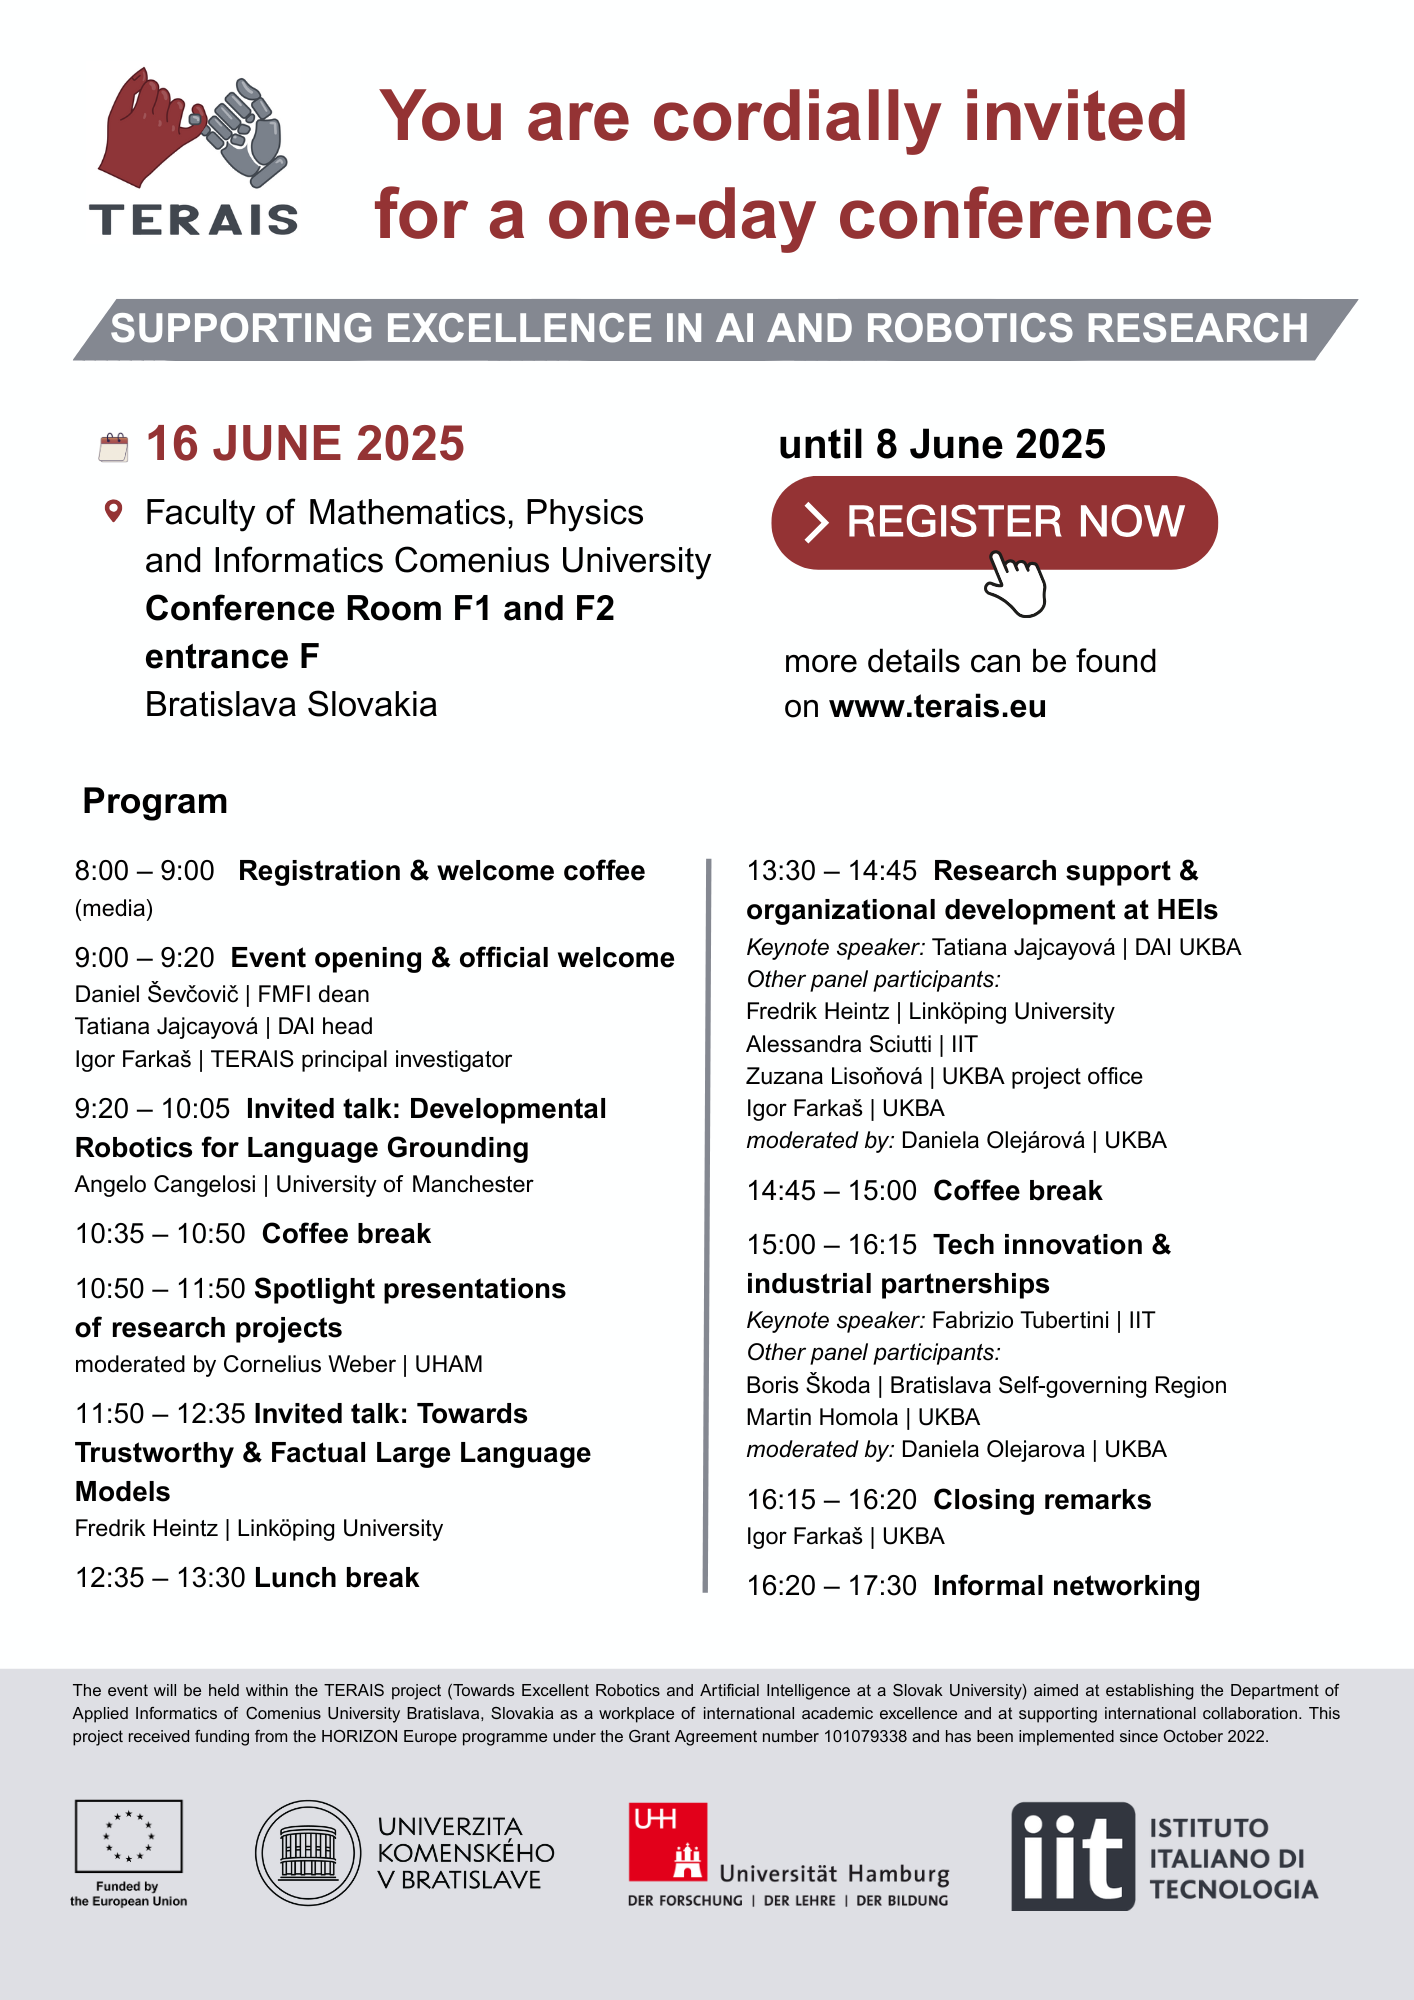
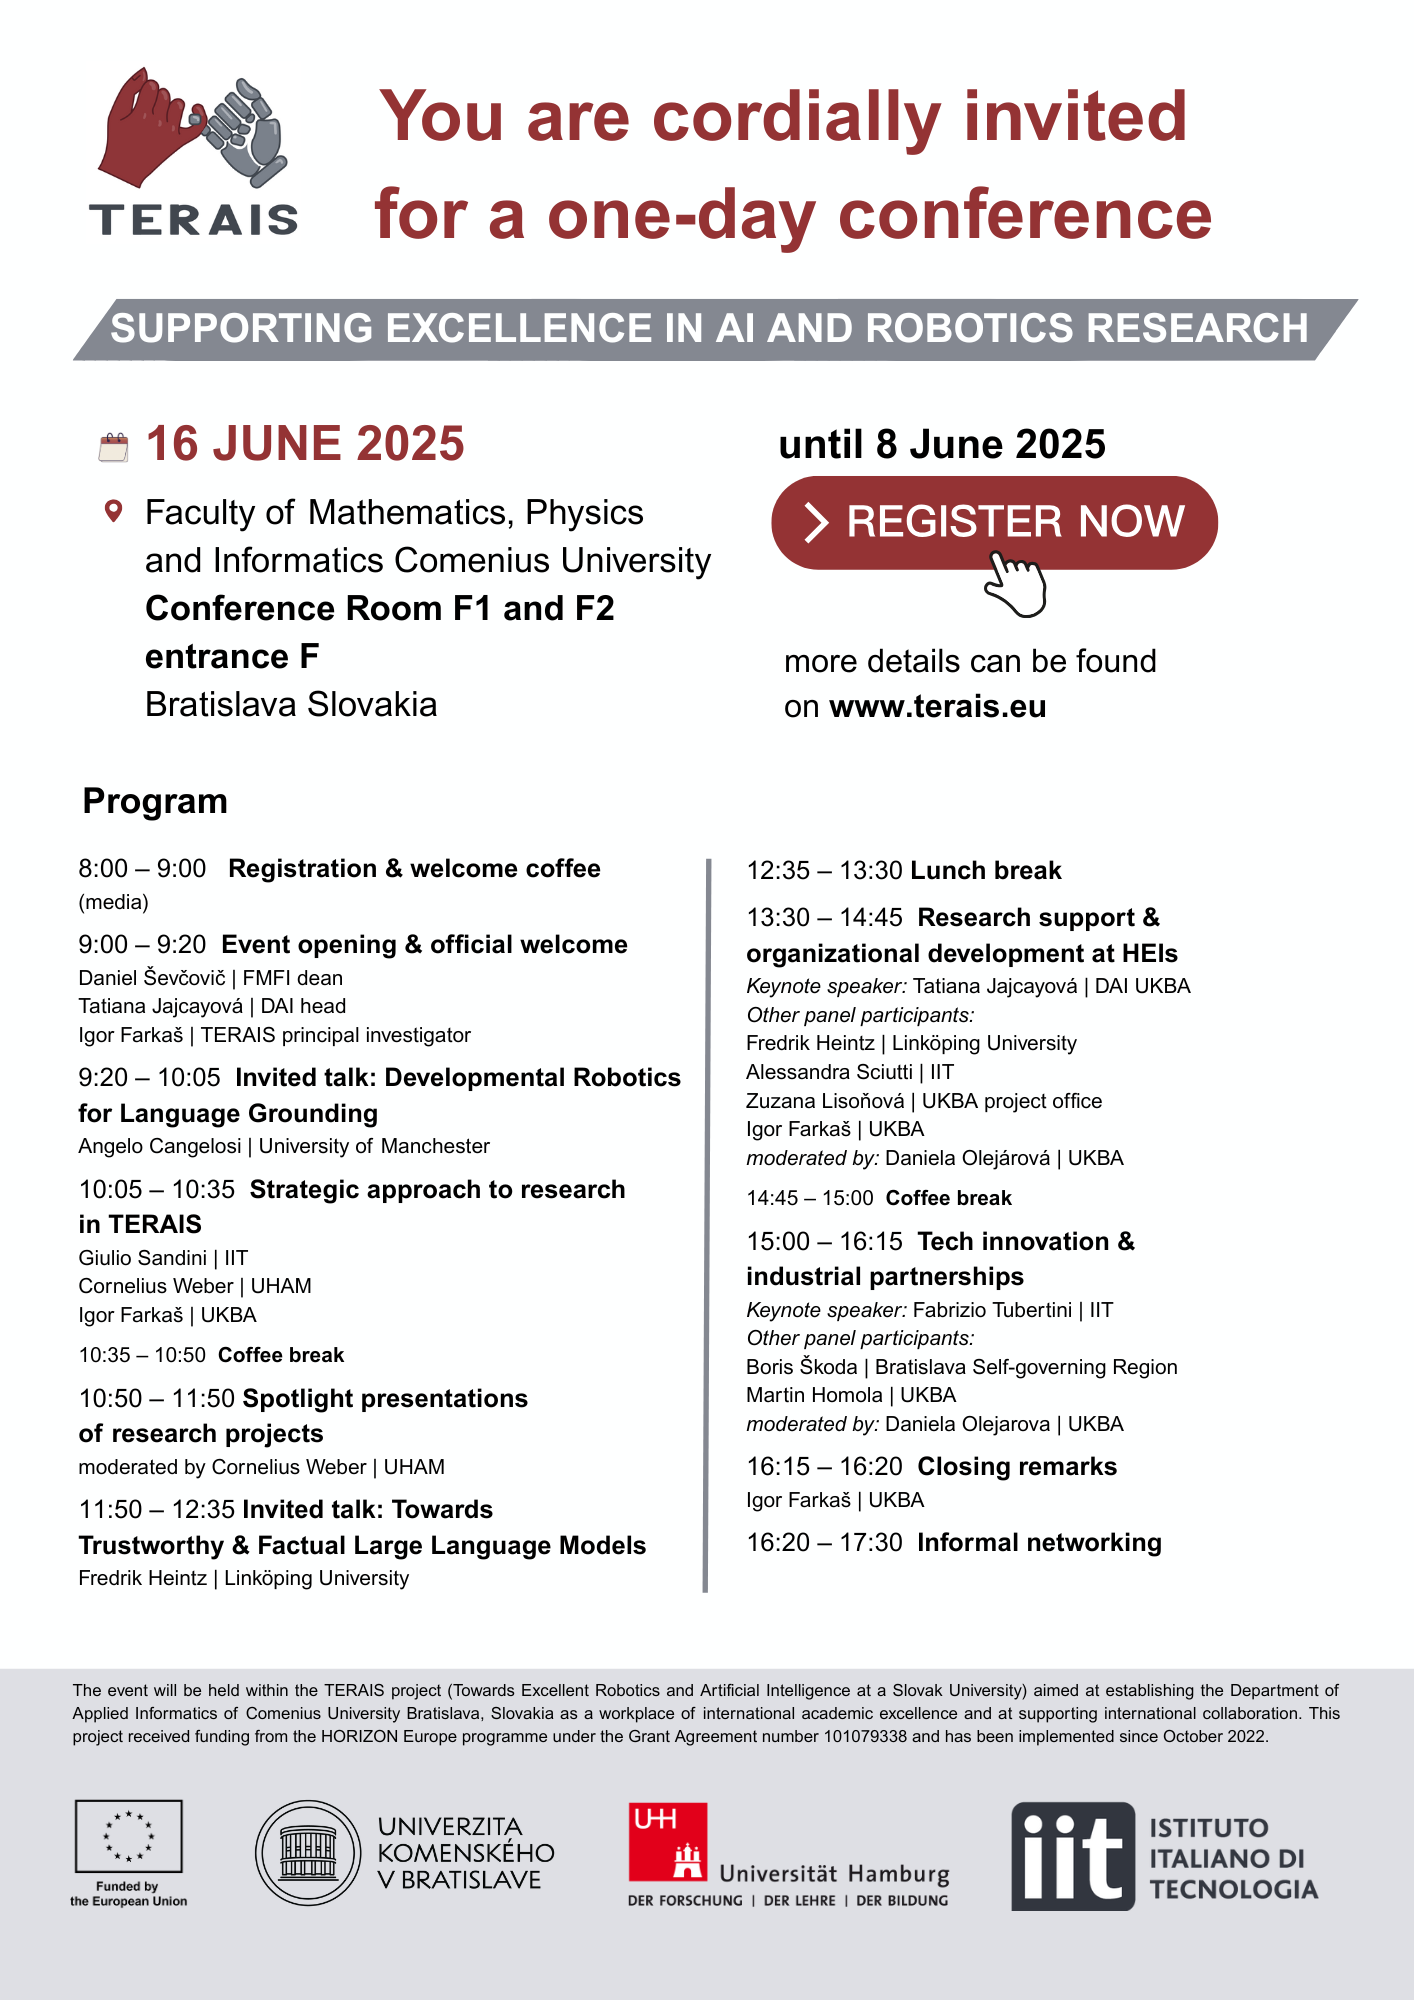
update events

Changed region(s): [[0.0311, 0.434, 0.4668, 0.806], [0.529, 0.434, 0.8713, 0.806]]

diff --git a/content/events/index.html b/content/events/index.html
@@ -1,0 +1,154 @@
+<h1 style="margin: 0">Events</h1>
+<hr>
+<a href="https://forms.gle/3WgNUwh1aGhbS5Cm6" target="_blank">
+	{{< figure src="invitation.png" alt="Lecture halls at FMPI"
+	lightbox="false" class="w-100 m-0 figure" >}}
+</a>
+Contact person: <a href="mailto:nina.kucerakova@fmph.uniba.sk">nina.kucerakova@fmph.uniba.sk</a>
+<h2 style="display: none">Agenda</h2>
+<div style="display: none">
+	<hr>
+	<div style="display: flex; flex-direction: row; justify-content: left; gap: 1em">
+		<div><strong>8:00 – 9:00</strong></div>
+		<div><em>Registration & welcome coffee (media)</em></div>
+	</div>
+	<hr>
+	<div style="display: flex; flex-direction: row; justify-content: left; gap: 1em">
+		<div><strong>9:00 – 9:20</strong></div>
+		<div>Event opening & official welcome</div>
+	</div>
+	<div>
+		<details>
+			<summary><strong>Daniel Ševčovič</strong> | FMFI dean</summary>
+		</details>
+		<details>
+			<summary><strong>Tatiana Jajcayová</strong> | DAI head</summary>
+		</details>
+		<details>
+			<summary><strong>Igor Farkaš</strong> | TERAIS principal investigator</summary>
+		</details>
+	</div>
+	<hr>
+	<div style="display: flex; flex-direction: row; justify-content: left; gap: 1em">
+		<div><strong>9:20 – 10:05</strong></div>
+		<div><strong>Invited lecture</strong>: Developmental Robotics for Language Grounding</div>
+	</div>
+	<div>
+		<details>
+			<summary><strong>Angelo Cangelosi</strong> | University of Manchester</summary>
+		</details>
+	</div>
+	<hr>
+	<div style="display: flex; flex-direction: row; justify-content: left; gap: 1em">
+		<div><strong>10:05 – 10:35</strong></div>
+		<div><strong>Strategic approach to research in TERAIS</strong></div>
+	</div>
+	<div>
+		<details>
+			<summary><strong>Giulio Sandini</strong> | IIT</summary>
+		</details>
+		<details>
+			<summary><strong>Cornelius Weber </strong> | UHAM</summary>
+		</details>
+		<details>
+			<summary><strong>Igor Farkaš</strong> | UKBA</summary>
+		</details>
+	</div>
+	<hr>
+	<div style="display: flex; flex-direction: row; justify-content: left; gap: 1em">
+		<div><strong>10:35 – 10:50</strong></div>
+		<div><em>Coffee break</em></div>
+	</div>
+	<hr>
+	<div style="display: flex; flex-direction: row; justify-content: left; gap: 1em">
+		<div><strong>10:50 – 11:50</strong></div>
+		<div><strong>Spotlight presentations of research projects</strong> <em>(see below)</em></div>
+	</div>
+	<div>
+		<details>
+			<summary><strong>Cornelius Weber</strong> | UHAM</summary>
+		</details>
+	</div>
+	<hr>
+	<div style="display: flex; flex-direction: row; justify-content: left; gap: 1em">
+		<div><strong>11:50 – 12:35</strong></div>
+		<div><strong>Invited lecture</strong>: Towards Trustworthy and Factual Large Language Models</div>
+	</div>
+	<div>
+		<details>
+			<summary><strong>Fredrik Heintz</strong> | Linköping University</summary>
+		</details>
+	</div>
+	<hr>
+	<div style="display: flex; flex-direction: row; justify-content: left; gap: 1em">
+		<div><strong>12:35 – 13:30</strong></div>
+		<div><em>Lunch break</em></div>
+	</div>
+	<hr>
+	<div style="display: flex; flex-direction: row; justify-content: left; gap: 1em">
+		<div><strong>13:30 – 14:45</strong></div>
+		<div><strong>Research support & organizational development at HEIs</strong></div>
+	</div>
+	<div>
+		<details>
+			<summary><em>Keynote speaker: </em><strong>Tatiana Jajcayová</strong> | DAI UKBA</summary>
+		</details>
+		<details>
+			<summary><em>Other panel participants: </em><strong>Fredrik Heintz</strong> | Linköping University, <strong>Alessandra
+				Sciutti</strong> | IIT, <strong>Zuzana Lisoňová</strong> | UKBA project office, <strong>Igor Farkaš</strong> |
+				UKBA
+			</summary>
+		</details>
+		<details>
+			<summary><em>Moderated by: </em><strong>Daniela Olejárová</strong> | UKBA</summary>
+		</details>
+	</div>
+	<hr>
+	<div style="display: flex; flex-direction: row; justify-content: left; gap: 1em">
+		<div><strong>14:45 – 15:00</strong></div>
+		<div><em>Coffee break</em></div>
+	</div>
+	<hr>
+	<div style="display: flex; flex-direction: row; justify-content: left; gap: 1em">
+		<div><strong>15:00 – 16:15</strong></div>
+		<div><strong>Tech innovation & industrial partnerships</strong></div>
+	</div>
+	<div>
+		<details>
+			<summary><em>Keynote speaker: </em><strong>Fabrizio Tubertini</strong> | IIT</summary>
+		</details>
+		<details>
+			<summary><em>Other panel participants: </em><strong>Boris Škoda</strong> | Bratislava Self-governing Region;
+				<strong>Martin Homola</strong> | UKBA
+			</summary>
+		</details>
+		<details>
+			<summary><em>Moderated by: </em><strong>Daniela Olejárová</strong> | UKBA</summary>
+		</details>
+	</div>
+	<hr>
+	<div style="display: flex; flex-direction: row; justify-content: left; gap: 1em">
+		<div><strong>16:15 – 16:20</strong></div>
+		<div><strong>Closing remarks</strong></div>
+	</div>
+	<div>
+		<details>
+			<summary><strong>Igor Farkaš</strong> | UKBA</summary>
+		</details>
+	</div>
+	<hr>
+	<div style="display: flex; flex-direction: row; justify-content: left; gap: 1em">
+		<div><strong>16:20 – 17:30</strong></div>
+		<div><em>Informal networking </em></div>
+	</div>
+	<hr>
+</div>
+<h2>Venue</h2>
+<div class="text-nowrap">
+	<iframe
+			src="https://www.google.com/maps/embed?pb=!1m14!1m8!1m3!1d665.4584096245268!2d17.070768195004774!3d48.15201241893831!3m2!1i1024!2i768!4f13.1!3m3!1m2!1s0x476c8bec98e48691%3A0x33ca8abbb6668476!2sFMFI%20UK%2C%20pavil%C3%B3n%20matematiky!5e0!3m2!1sen!2sus!4v1743672913769!5m2!1sen!2sus"
+			allowfullscreen="" class="w-100 m-0 border-0 figure" style="aspect-ratio: 8 / 5"></iframe>
+</div>
+<h1>Previous events</h1>
+<hr>
+You can read about our previous events <a href="/previous-events">here</a>.
